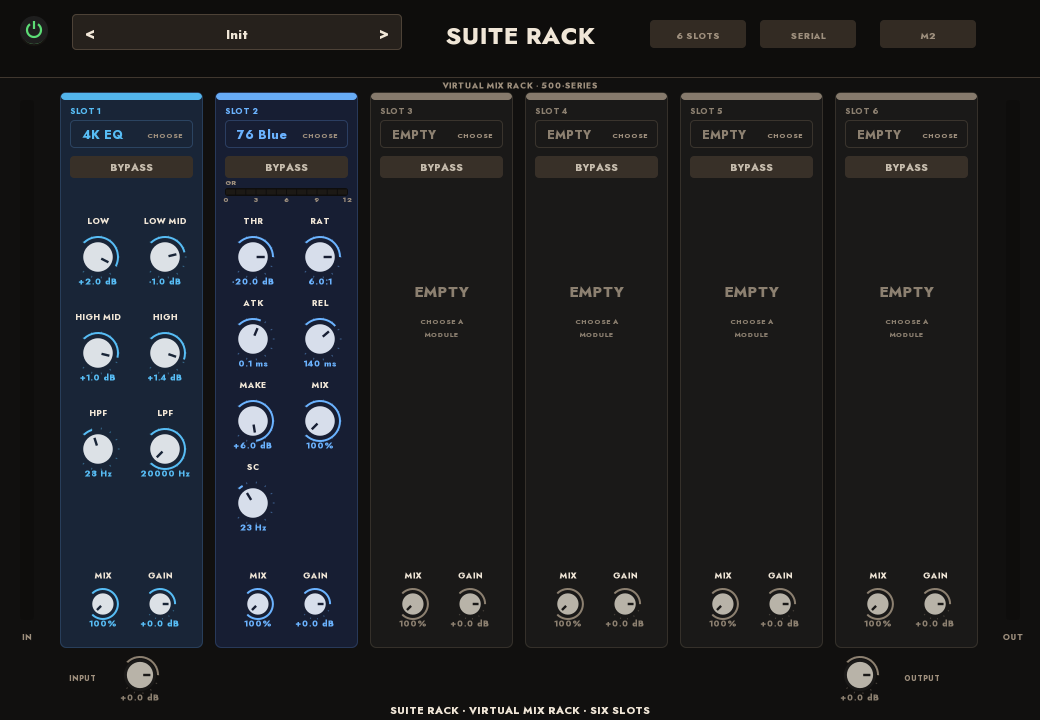
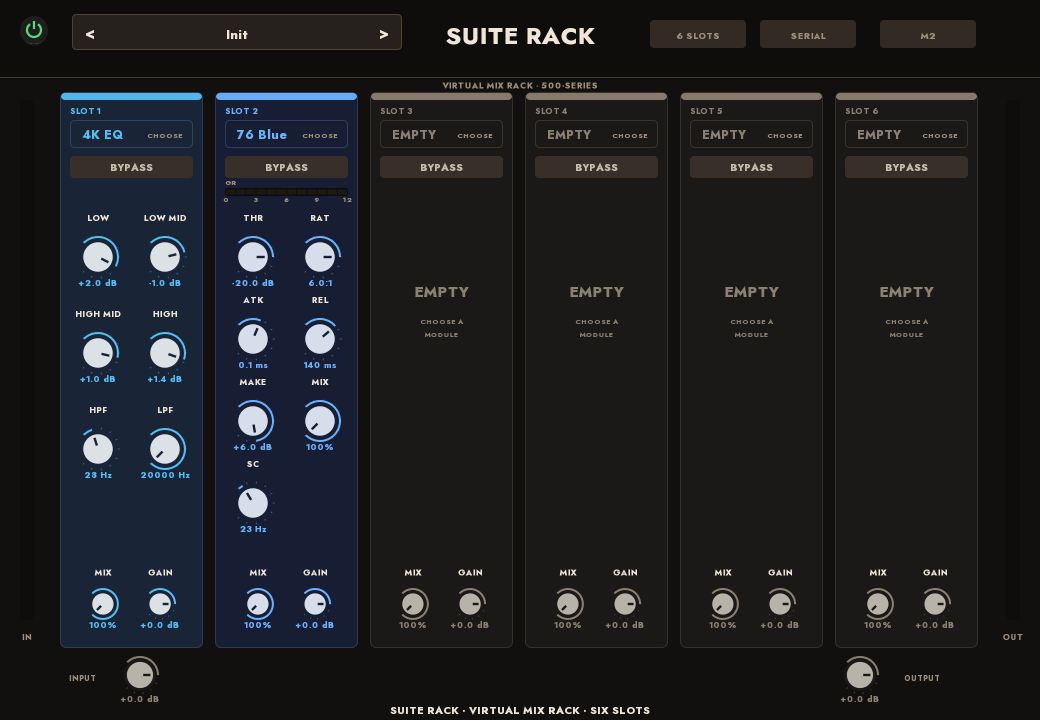
Suite Rack 0.5.1-m2 — label spacing and double-click reset

diff --git a/src/ui/panel.cpp b/src/ui/panel.cpp
@@ -599,11 +599,11 @@ void Panel::drawKnob(cairo_t* cr, const Widget& w, const Shared& shared,
   cairo_line_to(cr, w.x + std::cos(a) * w.r * 0.65, w.y + std::sin(a) * w.r * 0.65);
   cairo_stroke(cr);
   const double labelY = w.labelBelow ? w.y + w.r * 1.5 + 20
-                                     : w.y - w.r * 1.5 - (w.compact ? 6.0 : 14.0);
+                                     : w.y - w.r * 1.5 - (w.compact ? 9.0 : 16.0);
   text(cr, w.label, w.x, labelY, w.compact ? 8.5 : 10.0, 1,
        kText.r, kText.g, kText.b);
   const std::string val = formatParamValue(shared, w.param, value);
-  text(cr, val.c_str(), w.x, w.y + w.r + (w.compact ? 9.5 : 14.0),
+  text(cr, val.c_str(), w.x, w.y + w.r + (w.compact ? 11.0 : 15.0),
        w.compact ? 8.5 : 8.5, 1, st.accent.r, st.accent.g, st.accent.b);
 }
 
@@ -743,13 +743,39 @@ bool Panel::pointerDown(Shared& shared, PanelState& state, double x, double y,
         shared.set(w.param, w.value);
         state.presetDirty = true;
         return true;
-      case Kind::Knob:
+      case Kind::Knob: {
+        const auto now = std::chrono::steady_clock::now();
+        if (lastClickParam_ == static_cast<int>(w.param) &&
+            now - lastClickTime_ <= std::chrono::milliseconds(350)) {
+          double reset = kParamSpecs[w.param].def;
+          if (w.param >= P_SLOT0_TYPE) {
+            const int slot =
+                static_cast<int>((w.param - P_SLOT0_TYPE) / kSlotStride);
+            const int offset =
+                static_cast<int>((w.param - P_SLOT0_TYPE) % kSlotStride);
+            if (slot >= 0 && slot < kSlotCount && offset >= kSlotOffsetC0) {
+              const int control = offset - kSlotOffsetC0;
+              const int type = static_cast<int>(
+                  shared.get(slotParam(slot, kSlotOffsetType)) + 0.5);
+              reset = defaultControlValue(moduleDesc(type)->id, control);
+            }
+          }
+          shared.set(w.param, reset);
+          state.presetDirty = true;
+          lastClickParam_ = -1;
+          dragParam_ = -1;
+          return true;
+        }
+        lastClickParam_ = static_cast<int>(w.param);
+        lastClickTime_ = now;
         dragParam_ = static_cast<int>(w.param);
         dragSteps_ = w.steps;
         dragStartY_ = y;
         dragStartValue_ = shared.get(w.param);
-        if (dragSteps_ > 1) dragStartValue_ = std::min(dragStartValue_, dragSteps_ - 1.0);
+        if (dragSteps_ > 1)
+          dragStartValue_ = std::min(dragStartValue_, dragSteps_ - 1.0);
         return false;
+      }
     }
   }
   return false;

diff --git a/test/test_panel.cpp b/test/test_panel.cpp
@@ -123,6 +123,17 @@ int main() {
     if (r.param == slotParam(0, kSlotOffsetGain)) gainFound = true;
   }
   check(gainFound, "per-slot gain is present");
+
+  // Double-clicking a knob resets it to the active module's default.
+  const uint32_t lowParam = slotParam(0, kSlotOffsetC0 + kCtlLow);
+  s.set(lowParam, 0.90);
+  panel.draw(cr, s, state);
+  check(clickParam(panel, s, state, lowParam), "EQ low knob is clickable");
+  check(clickParam(panel, s, state, lowParam),
+        "EQ low knob accepts a double-click");
+  check(std::fabs(s.get(lowParam) - 0.60) < 1e-6,
+        "double-click resets the control to its module default");
+
   check(!panel.widgetRects().empty(), "panel reports widget geometry");
 
   cairo_destroy(cr);

diff --git a/src/ui/panel.hpp b/src/ui/panel.hpp
@@ -4,6 +4,8 @@
 
 #include <cairo.h>
 
+#include <chrono>
+
 #include <string>
 #include <vector>
 
@@ -110,6 +112,8 @@ private:
 
   std::vector<Widget> widgets_;
   int dragParam_ = -1;
+  int lastClickParam_ = -1;
+  std::chrono::steady_clock::time_point lastClickTime_{};
   double dragStartY_ = 0.0;
   double dragStartValue_ = 0.0;
   int dragSteps_ = 0;

diff --git a/src/version.hpp b/src/version.hpp
@@ -5,6 +5,6 @@
 namespace rack {
 constexpr int kVersionMajor = 0;
 constexpr int kVersionMinor = 5;
-constexpr int kVersionMicro = 0;
-constexpr const char* kVersion = "0.5.0-m2";
+constexpr int kVersionMicro = 1;
+constexpr const char* kVersion = "0.5.1-m2";
 } // namespace rack

diff --git a/README.md b/README.md
@@ -1,6 +1,6 @@
 # Suite Rack
 
-**Status: 0.5.0-m2 — CLAP + LV2, module registry and eighteen modules.**
+**Status: 0.5.1-m2 — CLAP + LV2, module registry and eighteen modules.**
 The rest of the catalog, drag/reorder, module presets, browser search and user
 presets are next.
 
@@ -58,13 +58,14 @@ standalone plugins remain the full versions.
 Suite tools (spectral editor, De-Clip, De-Reverb, De-Noise). Those do not fit
 the 500-series format; Cleanup is the lightweight repair representative.
 
-## Current 0.5.0-m2 slice
+## Current 0.5.1-m2 slice
 
 - 1040×720 panel with the Comp Suite-family header: power, preset bar, centered
   title, utility pills.
 - Six vertical 500-series-style module columns, each with its own background and
   knob colour.
 - Per-slot bypass, mix and gain.
+- Double-click a knob to reset it to the active module's default.
 - Module browser with **ALL / EQ / COMP / COLOUR / DYN** categories.
 - Generic per-slot controls: twelve control slots plus type, bypass, mix and
   gain. Host automation follows the slot, not the module.

diff --git a/CHANGELOG.md b/CHANGELOG.md
@@ -1,5 +1,11 @@
 # Changelog
 
+## 0.5.1-m2 — 2026-11-17
+
+- Moved knob labels and values further from the knob body for the larger text.
+- Double-clicking a knob resets it to the active module's default value.
+- Right-click text entry remains reserved for the full-catalog pass.
+
 ## 0.5.0-m2 — 2026-11-17
 
 - Added Gate, Transient, Clip and De-Ess modules.
